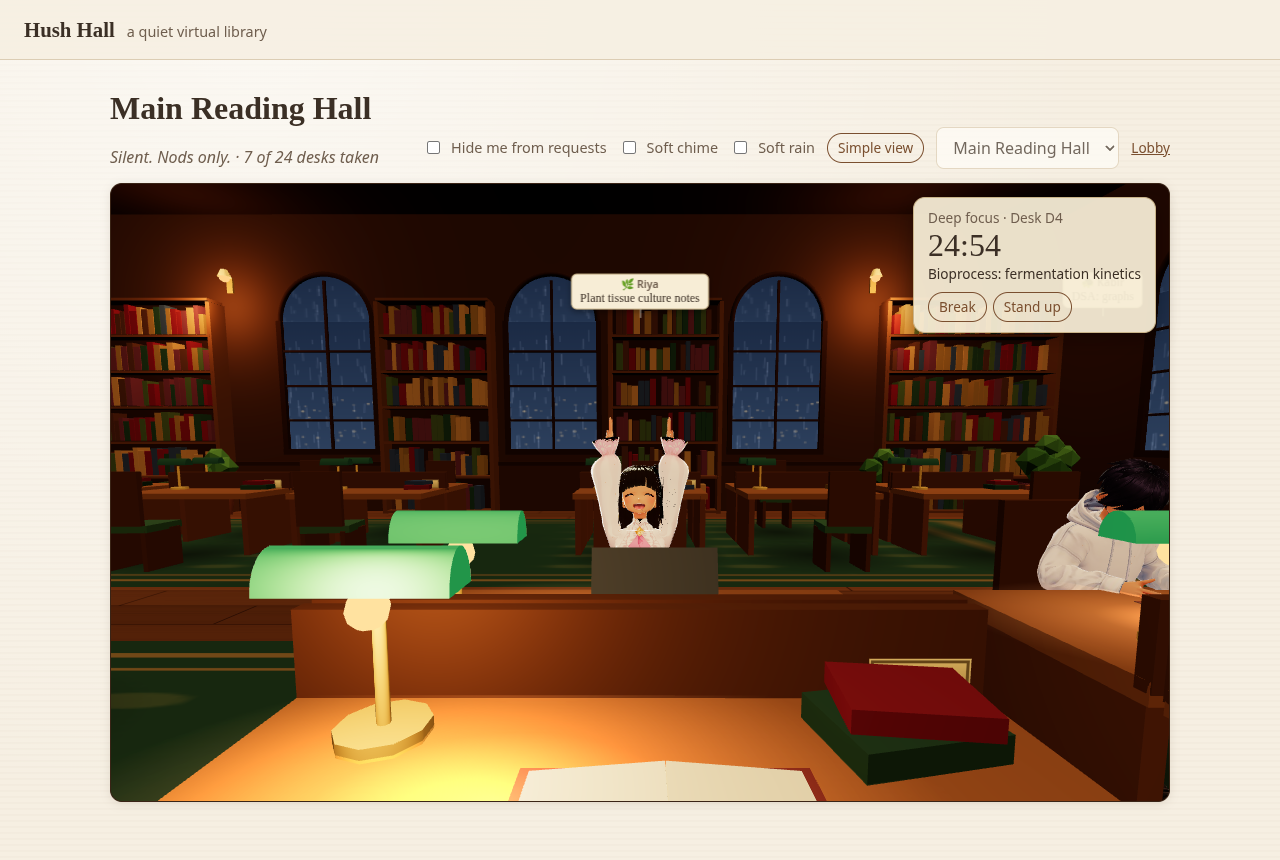
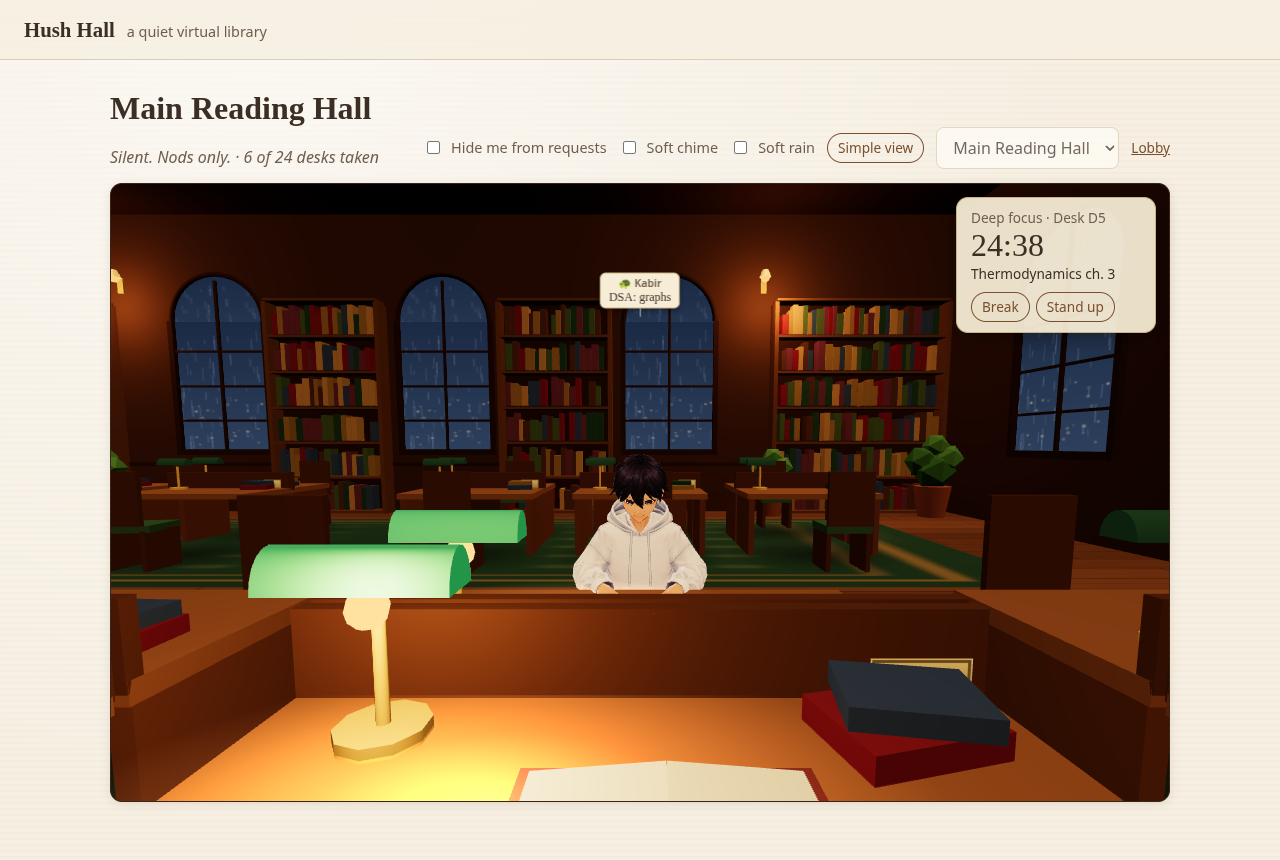
VRM students: warm face fill, less head-down pose with eyes glancing down, relaxed hands

diff --git a/app/components/three/VrmAvatar.tsx b/app/components/three/VrmAvatar.tsx
@@ -13,7 +13,7 @@ import { useFrame, useThree } from "@react-three/fiber"; // render loop
 import * as THREE from "three"; // math
 import type { Phase } from "@/lib/presence/types"; // pose source
 import LowPolyAvatar from "./Avatar"; // fallback
-import { MODELS, loadTemplate, instantiate, type Instance } from "./vrm"; // VRM loading + clones
+import { MODELS, FINGERS, boneOf, loadTemplate, instantiate, type Instance } from "./vrm"; // VRM loading + clones + finger names
 
 // Stable hash for per-student variety (same as the low-poly avatar).
 const hash = (s: string) => [...s].reduce((a, c) => (a * 33 + c.charCodeAt(0)) >>> 0, 5381); // djb2
@@ -54,6 +54,53 @@ function aim(bone: THREE.Object3D, child: THREE.Object3D, dir: THREE.Vector3) {
   bone.quaternion.setFromUnitVectors(rest, local); // shortest rotation
   bone.updateWorldMatrix(false, true); // refresh this branch
 }
+
+// Turn a bone so two of its rest directions land on two world directions:
+// `restF` (e.g. wrist -> middle knuckle) goes along `f`, and `restN`
+// (e.g. palm normal) goes as close to `n` as possible. Unlike aim(), this also
+// fixes the roll, so a palm can be told to face down instead of sideways.
+const W = { f: new THREE.Vector3(), n: new THREE.Vector3(), x: new THREE.Vector3(), rf: new THREE.Vector3(), rn: new THREE.Vector3(), rx: new THREE.Vector3(), mw: new THREE.Matrix4(), mr: new THREE.Matrix4(), q: new THREE.Quaternion() }; // own scratch (aim/ik2 use V)
+function orient(bone: THREE.Object3D, restF: THREE.Vector3, restN: THREE.Vector3, f: THREE.Vector3, n: THREE.Vector3) {
+  bone.parent!.getWorldQuaternion(W.q).invert(); // world -> parent space
+  const lf = W.f.copy(f).applyQuaternion(W.q).normalize(); // wanted forward, in parent space
+  const ln = W.n.copy(n).applyQuaternion(W.q); // wanted normal, in parent space
+  ln.addScaledVector(lf, -ln.dot(lf)).normalize(); // make it exactly perpendicular to forward
+  W.mw.makeBasis(lf, ln, W.x.crossVectors(lf, ln)); // wanted frame
+  const rf = W.rf.copy(restF).normalize(); // rest forward (rest rotations are identity)
+  const rn = W.rn.copy(restN).addScaledVector(rf, -restN.dot(rf)).normalize(); // rest normal, perpendicular
+  W.mr.makeBasis(rf, rn, W.rx.crossVectors(rf, rn)); // rest frame
+  bone.quaternion.setFromRotationMatrix(W.mw.multiply(W.mr.transpose())); // rotation taking rest frame to wanted frame
+  bone.updateWorldMatrix(false, true); // refresh this branch
+}
+
+// Relaxed finger curl per joint (radians), knuckle -> tip. A resting human hand
+// is never flat: fingers bend gently, the little finger a bit more than the index.
+const CURL = { Thumb: [0.15, 0.2, 0.15], Index: [0.3, 0.35, 0.2], Middle: [0.35, 0.4, 0.25], Ring: [0.4, 0.45, 0.25], Little: [0.45, 0.5, 0.3] } as const; // per finger, per joint
+const PALM_DOWN = new THREE.Vector3(0, -1, 0); // VRoid T-pose: palms face the floor at rest
+const AX = new THREE.Vector3(); // scratch curl axis
+
+// Bend every finger of one hand toward the palm by `amount` x CURL.
+function curlFingers(B: Instance["bones"], L: "left" | "right", amount: number) {
+  for (const f of FINGERS) {
+    for (let j = 0; j < 3; j++) {
+      const bone = B[boneOf(L, f, j)]; // this joint
+      if (!bone) continue; // model without that joint
+      const next = B[boneOf(L, f, Math.min(j + 1, 2))]; // the joint after it (tip uses its own)
+      const dir = (next && next !== bone ? next.position : bone.position); // which way this finger segment points at rest
+      AX.crossVectors(dir, PALM_DOWN).normalize(); // turning about this axis moves the segment toward the palm
+      bone.quaternion.setFromAxisAngle(AX, CURL[f][j] * amount); // bend
+    }
+  }
+  // Thumb: at rest it sticks out sideways (T-pose). Swing it part-way toward the
+  // index finger, the way a relaxed thumb lies alongside the hand.
+  const th = B[`${L}ThumbMetacarpal`], ti = B[`${L}ThumbProximal`], mid = B[`${L}MiddleProximal`]; // thumb root, its next joint, hand direction
+  if (th && ti && mid) {
+    const tuck = TQ.setFromUnitVectors(TV.a.copy(ti.position).normalize(), TV.b.copy(mid.position).normalize()); // full swing: thumb pointing where the fingers point
+    th.quaternion.premultiply(TQ2.identity().slerp(tuck, 0.45 * amount)); // apply part of it, after the small curl
+  }
+}
+const TQ = new THREE.Quaternion(), TQ2 = new THREE.Quaternion(); // thumb scratch rotations
+const TV = { a: new THREE.Vector3(), b: new THREE.Vector3() }; // thumb scratch vectors
 
 // Two-bone IK: root -> mid -> end reaching `target`, elbow/knee bending toward `pole`.
 function ik2(root: THREE.Object3D, mid: THREE.Object3D, end: THREE.Object3D, target: THREE.Vector3, pole: THREE.Vector3) {
@@ -103,11 +150,13 @@ export default function VrmAvatar(props: Props) {
     const { bones: B, root, sign } = inst; // shortcuts
     const brk = phase === "break", foc = phase === "focus"; // which pose
     const breath = reduced ? 0 : Math.sin((t + t0) * 1.3) * 0.012; // slow breathing
-    const lean = (brk ? -0.12 : foc ? 0.3 : 0.12) + breath; // spine lean (radians, + = forward)
+    const lean = (brk ? -0.12 : foc ? 0.22 : 0.1) + breath; // spine lean (radians, + = forward); a little more upright than before so the face isn't hidden
     const set = (b: THREE.Object3D | undefined, x: number, y = 0, z = 0) => b?.rotation.set(x * sign, y, z * sign); // body-frame -> raw frame
     set(B.hips, 0); set(B.spine, lean * 0.5); set(B.chest, lean * 0.3); set(B.upperChest, lean * 0.2); // curved back
     const sway = reduced ? 0 : Math.sin((t + t0) * 0.4) * 0.04; // tiny head drift
-    set(B.neck, brk ? -0.1 : foc ? 0.12 : 0.05); set(B.head, brk ? -0.15 : foc ? 0.16 : 0.04, sway, 0); // eyes down at the book, face still visible
+    set(B.neck, brk ? -0.1 : foc ? 0.06 : 0.03); set(B.head, brk ? -0.15 : foc ? 0.08 : 0.02, sway, 0); // head only slightly bowed, so the face (and eyes) stay visible from across the hall
+    const gaze = brk ? 0 : foc ? 0.12 : 0.05; // eyes glance down at the book instead of the whole head dropping (small, so the eyes stay open-looking)
+    set(B.leftEye, gaze); set(B.rightEye, gaze); // both eyes look down together
     root.updateWorldMatrix(true, true); // refresh before IK
     // World helpers: forward/right for this seat.
     const fx = (side: number, fwd: number, y: number) => V.b.set(position[0] + side * facing, y, position[2] + fwd * facing); // side>0 = student's left
@@ -133,13 +182,17 @@ export default function VrmAvatar(props: Props) {
         pole.set(s * facing, 0, -facing * 0.3).normalize(); // elbows out
       } else {
         const turn = s < 0 ? page : 0; // right hand turns pages
-        tgt.copy(fx(s * (0.16 - turn * 0.1), 0.37 + turn * 0.08, TOP_Y + 0.05 + turn * 0.06)); // wrists resting just past the desk edge
+        tgt.copy(fx(s * (0.16 - turn * 0.1), 0.37 + turn * 0.08, TOP_Y + 0.045 + turn * 0.06)); // wrists resting just past the desk edge, just above the wood
         pole.set(s * facing * 0.9, -1, -facing * 0.4).normalize(); // elbows down and slightly out
       }
       ik2(up, lo, hd, tgt, pole); // place arm
-      const fin = B[`${L}MiddleProximal`]; // finger root
-      if (fin && !brk) aim(hd, fin, V.b.set(-s * facing * 0.25, -0.04, facing).normalize()); // palm flat on the desk, fingers forward and a little inward
-      else hd.rotation.set(0, 0, 0); // open hands up high
+      const fin = B[`${L}MiddleProximal`]; // finger root (wrist -> middle knuckle = "hand forward")
+      if (fin && !brk) {
+        const fwd = V.b.set(-s * facing * 0.3, 0.02, facing); // fingers point forward and a little inward; level, so the curled fingertips meet the desk instead of sinking into it
+        const palm = V.c.set(-s * facing * 0.35, -1, 0); // palm faces the desk, rolled a little toward the body's centre (pinky edge lower, like a resting hand)
+        orient(hd, fin.position, PALM_DOWN, fwd, palm); // set wrist direction and roll together (fixes the sideways "claw" palms)
+      } else hd.rotation.set(0, 0, 0); // open hands up high
+      curlFingers(B, L, brk ? 0.4 : 1); // relaxed, gently bent fingers (looser while stretching)
     }
     // Face: blink every few seconds; smile on break.
     let blink = 0; // 0 open .. 1 closed
@@ -148,7 +201,7 @@ export default function VrmAvatar(props: Props) {
       if (t > blinkAt.current) blink = Math.sin(((t - blinkAt.current) / 0.16) * Math.PI); // quick close/open
     }
     inst.setExpression("happy", brk ? 1 : 0); // ^^ happy stretch
-    inst.setExpression("relaxed", brk ? 0 : 0.3); // soft, calm face while studying
+    inst.setExpression("relaxed", brk ? 0 : 0.15); // soft, calm face while studying (lighter, so the eyes don't look half-shut)
     inst.setExpression("blink", brk ? 0 : blink); // blink
   };
 

diff --git a/app/components/three/vrm.ts b/app/components/three/vrm.ts
@@ -24,12 +24,21 @@ export const MODELS = [
   { file: "sendagaya_shino.vrm", name: "Sendagaya Shino" }, // β-era sample
 ] as const;
 
+// Finger joints we pose: 5 fingers x 3 joints x 2 hands.
+export const FINGERS = ["Thumb", "Index", "Middle", "Ring", "Little"] as const; // thumb first
+// Joint names, knuckle -> tip. three-vrm uses VRM 1.0 names, where the thumb's
+// joints are Metacarpal/Proximal/Distal (VRM 0.x files are mapped onto these).
+export const jointsOf = (f: (typeof FINGERS)[number]) => (f === "Thumb" ? ["Metacarpal", "Proximal", "Distal"] : ["Proximal", "Intermediate", "Distal"]) as readonly string[]; // per finger
+export const boneOf = (side: "left" | "right", f: (typeof FINGERS)[number], j: number) => `${side}${f}${jointsOf(f)[j]}` as VRMHumanBoneName; // e.g. "leftIndexProximal"
+const FINGER_BONES = (["left", "right"] as const).flatMap((s) => FINGERS.flatMap((f) => [0, 1, 2].map((j) => boneOf(s, f, j)))); // all 30 finger bones
+
 // Bones we pose. Everything else stays at rest.
 const BONES: VRMHumanBoneName[] = [
   "hips", "spine", "chest", "upperChest", "neck", "head",
   "leftUpperLeg", "leftLowerLeg", "leftFoot", "rightUpperLeg", "rightLowerLeg", "rightFoot",
   "leftShoulder", "leftUpperArm", "leftLowerArm", "leftHand", "rightShoulder", "rightUpperArm", "rightLowerArm", "rightHand",
-  "leftMiddleProximal", "rightMiddleProximal", // to lay hands flat
+  "leftEye", "rightEye", // eyes glance down at the book while the head stays a little higher
+  ...FINGER_BONES, // all finger joints, so hands can rest relaxed instead of splayed
 ];
 
 // One loaded model, ready to clone.
@@ -94,6 +103,7 @@ export function loadTemplate(file: string): Promise<Template> {
       if (m.isMesh && Array.isArray(m.material) && /CLOTH|Body/.test(m.material[0].name)) { m.material = m.material[0]; m.geometry.clearGroups(); } // surface only
     });
     mergeByMaterial(gltf.scene); // fewer draw calls
+    gltf.scene.traverse((o) => faceFill(o as THREE.Mesh)); // soft "desk lamp" fill on faces and hands (shared by every clone)
     const extras: THREE.Object3D[] = []; // spring-bone colliders + the normalized rig (we pose raw bones, no physics)
     gltf.scene.traverse((o) => { if ("colliderMatrix" in o || o === vrm.humanoid.normalizedHumanBonesRoot) extras.push(o); }); // can't be cloned safely
     extras.forEach((o) => o.removeFromParent()); // drop them
@@ -136,6 +146,30 @@ export function instantiate(t: Template, tint?: { skin?: THREE.Color; hair?: THR
   };
 }
 
+// Face fill: the hall is lit from high above, so a head tilted toward a book
+// falls into shadow and the eyes, nose and mouth disappear. Instead of adding a
+// real light per student (every extra light costs every pixel in the hall), we
+// give face and hand materials a faint warm glow from their own texture, as if
+// the desk lamp were bouncing light up off the open book, and lift their shadow
+// colour so the shaded side of the face still shows its features.
+const FILL = new THREE.Color("#ffd9b0"); // warm lamp-bounce colour
+type Toon = THREE.Material & { color?: THREE.Color; map?: THREE.Texture | null; emissive?: THREE.Color; emissiveMap?: THREE.Texture | null; shadeColorFactor?: THREE.Color }; // MToon fields we touch
+function faceFill(m: THREE.Mesh) {
+  if (!m.isMesh) return; // only meshes
+  const mats = (Array.isArray(m.material) ? m.material : [m.material]) as Toon[]; // surface (+ outline)
+  for (const mat of mats) {
+    const face = /_Face_|_EYE|_FACE/.test(mat.name); // face skin, eyes, brows, lashes, mouth
+    const skin = /Body_00_SKIN/.test(mat.name); // body skin (shows on hands)
+    if ((!face && !skin) || !mat.color || !mat.emissive || mat.userData.filled) continue; // only skin/face MToon, once
+    const glow = face ? 0.22 : 0.12; // faces get more fill than hands
+    if (mat.map) { mat.emissiveMap = mat.map; mat.emissive.copy(FILL).multiplyScalar(glow); } // glow follows the painted texture, so eyes stay dark and skin stays skin-coloured
+    else mat.emissive.copy(mat.color).multiply(FILL).multiplyScalar(glow); // untextured fallback: glow in the base colour
+    mat.shadeColorFactor?.lerp(mat.color, face ? 0.45 : 0.25); // shaded side moves part-way toward the lit colour (softer shadow, same mood)
+    mat.userData.filled = true; // don't apply twice (outline pass can share the material)
+    mat.needsUpdate = true; // recompile with the emissive map
+  }
+}
+
 // Shared tinted material variants (so ten avatars with the same tint still share one material).
 const tintCache = new Map<string, THREE.Material>(); // key -> material
 function tintMesh(m: THREE.Mesh, tint: { skin?: THREE.Color; hair?: THREE.Color }) {
@@ -149,6 +183,7 @@ function tintMesh(m: THREE.Mesh, tint: { skin?: THREE.Color; hair?: THREE.Color 
       const v = mat.clone() as THREE.Material & { color?: THREE.Color; shadeColorFactor?: THREE.Color }; // MToon copy
       v.color?.multiply(c); // lit colour
       v.shadeColorFactor?.multiply(c); // shadow colour
+      (v as Toon).emissive?.multiply(c); // face fill glow follows the skin tint too
       tintCache.set(key, v); // share
     }
     return tintCache.get(key)!;
